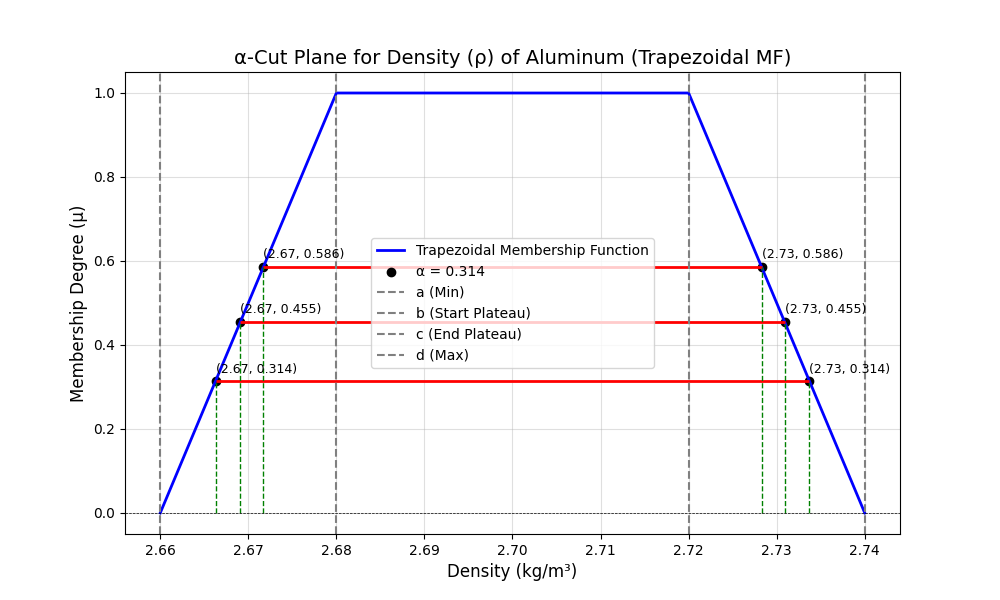
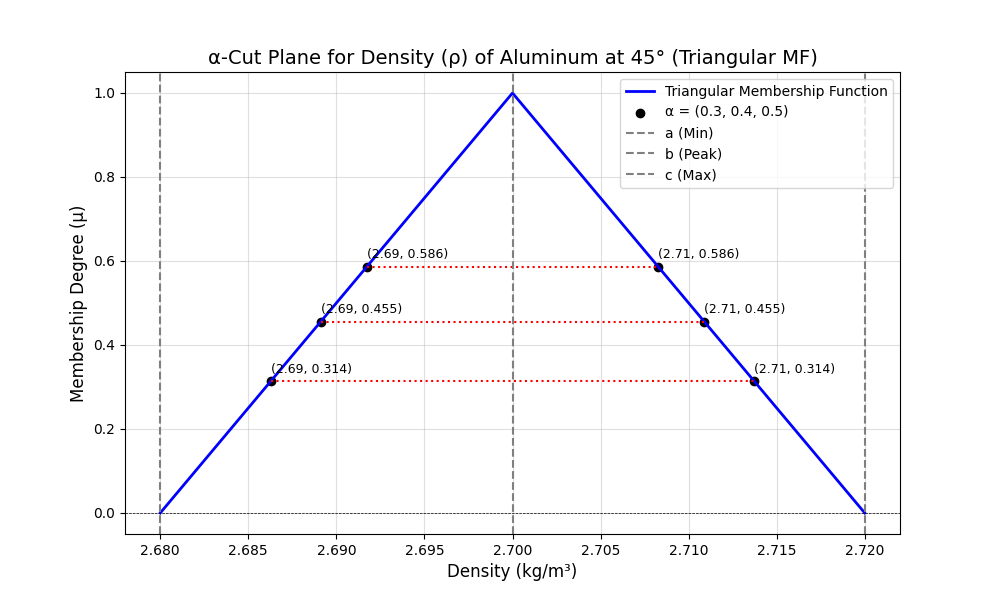
first commit

diff --git a/templates/index.html b/templates/index.html
@@ -135,10 +135,10 @@
                 <div class="form-group">                    
                     
                     <label><u>Fuzzy Membership Function:</u></label>
-                    <select name="ddlfuntion">
-                        <option>Select Function.</option>
-                        <option selected>Trapezoidal Fuzzy Function.</option>
-                        <option>Triangular Fuzzy Function.</option>
+                    <select name="ddlfuntion" required>
+                        <option value="">Select Function.</option>
+                        <option value="Trapezoidal" {% if s2=="Trapezoidal" %}selected{% endif %}>Trapezoidal Fuzzy Function.</option>
+                        <option value="Triangular" {% if s2=="Triangular" %}selected{% endif %}>Triangular Fuzzy Function.</option>
                     </select>
                 </div>
 
@@ -153,7 +153,7 @@
                         <option value="SS-304 Grade ABS Silicon">SS-304 Grade ABS Silicon</option>                        
                     </select>
                 </div>
-                <div class="form-group">
+                <div class="form-group" style="display: none;">
                     <label><u>Graph of:</u></label>
                     <input type="checkbox" id="vehicle1" name="vehicle1" value="Bike" style="width: 20px;" checked>
                     <label for="vehicle1" style="display: contents;"> Density</label><br>
@@ -163,7 +163,6 @@
                         <option value="">Select Graph.</option>
                         <option value="Density" {% if s2=="Density" %}selected{% endif %}>Density</option>
                         <option value="Youngs modulus" {% if s2=="Youngs modulus" %}selected{% endif %}>Young's modulus</option>
-
                     </select> -->
                 </div>
                 <label class="form-group"><u>Enter The Value:</u></label>

diff --git a/demo.py b/demo.py
@@ -1,47 +1,89 @@
-import numpy as np
-import matplotlib.pyplot as plt
+# # import matplotlib.pyplotas plt
+# import matplotlib.pyplot as plt
+# # Define the triangular membership function parameters for Density of Aluminum
+# a = 2.68  # Minimum value (kg/m³)
+# b = 2.70  # Most likely value (kg/m³)
+# c = 2.72  # Maximum value (kg/m³)
 
-# Define trapezoidal membership function parameters
-a, b, c, d = 2690, 2693, 2702, 2705  # Trapezoidal points
+# # Define α levels
+# alpha = [0.3, 0.4, 0.5]
 
-# Generate x values and corresponding membership values
-x_density = np.linspace(2687, 2707, 500)
-mf_density = np.piecewise(
-    x_density,
-    [x_density <= a, (a < x_density) & (x_density < b), 
-     (b <= x_density) & (x_density <= c), (c < x_density) & (x_density < d), x_density >= d],
-    [0, lambda x: (x - a) / (b - a), 1, lambda x: (d - x) / (d - c), 0]
-)
+# # Calculate x (lower bound) and x̄ (upper bound) for each α
+# x = [a + (b - a) * alpha_val for alpha_val in alpha]
+# x_bar = [c - (c - b) * alpha_val for alpha_val in alpha]
 
-# Correct α-cut points calculated using membership function formulas
-alpha_cut_points = [
-    # (x_min, x_max, alpha, alpha_prime) with x_min and x_max computed for desired alphas
-    (a + 0.3*(b - a), d - 0.36*(d - c), 0.3, 0.36),  # First line
-    (a + 0.4*(b - a), d - 0.45*(d - c), 0.4, 0.45),  # Second line
-    (a + 0.5*(b - a), d - 0.58*(d - c), 0.5, 0.58)   # Third line
-]
 
-# Plotting the trapezoidal membership function
-plt.figure(figsize=(10, 6))
-plt.plot(x_density, mf_density, label='Trapezoidal Membership Function', color='blue')
+# # Plot the triangular membership function
+# plt.figure(figsize=(10, 6))
+# plt.plot([a, b, c], [0, 1, 0], label="Triangular Membership Function", color="blue", linewidth=2)
 
-# Plotting corrected α-cut lines
-for i, (x_min, x_max, alpha, alpha_prime) in enumerate(alpha_cut_points):
-    plt.scatter([x_min, x_max], [alpha, alpha_prime], color='black')  # Points on the MF
-    plt.plot([x_min, x_max], [alpha, alpha_prime], color='red', linestyle='dotted')  # Slanted line
-    plt.text(x_min, alpha, f'({x_min:.1f}, {alpha})', fontsize=10, ha='right')
-    plt.text(x_max, alpha_prime, f'({x_max:.1f}, {alpha_prime})', fontsize=10, ha='left')
+# # Plot α-cut points and annotate coordinates
+# for i in range(len(alpha)):
+#     plt.hlines(alpha[i], x[i], x_bar[i], color="red", linestyles="dotted", linewidth=1.5)
+#     plt.scatter([x[i], x_bar[i]], [alpha[i], alpha[i]], color="black", label=f"α = {0.3,0.4,0.5}" if i == 0 else "")
 
-# Mark key points with dashed lines
-plt.axvline(x=a, color='gray', linestyle='dashed', label='a (2690)')
-plt.axvline(x=b, color='gray', linestyle='dashed', label='b (2693)')
-plt.axvline(x=c, color='gray', linestyle='dashed', label='c (2702)')
-plt.axvline(x=d, color='gray', linestyle='dashed', label='d (2705)')
+#     # Annotate coordinates
+#     plt.text(x[i], alpha[i] + 0.02, f"({x[i]:.2f}, {alpha[i]})", color="black", fontsize=9)
+#     plt.text(x_bar[i], alpha[i] + 0.02, f"({x_bar[i]:.2f}, {alpha[i]})", color="black", fontsize=9)
 
-plt.xlabel("Density of Aluminum (kg/m³)")
-plt.ylabel("Membership Degree ($\\mu$)")
-plt.title("Corrected α - α' Cut Plane for Density (Trapezoidal MF)")
-plt.legend(loc='upper right')
-plt.grid(True)
-plt.savefig("corrected_alpha_cut_plot.png")
-plt.show()
+# # Add labels and decorations
+# plt.title("α-Cut Plane for Density (ρ) of Aluminum at 45° (Triangular MF)", fontsize=14)
+# plt.xlabel("Density (kg/m³)", fontsize=12)
+# plt.ylabel("Membership Degree (μ)", fontsize=12)
+# plt.axhline(0, color='black', linewidth=0.5, linestyle='--')
+# plt.axvline(a, color='gray', linestyle="--", label="a (Min)")
+# plt.axvline(b, color='gray', linestyle="--", label="b (Peak)")
+# plt.axvline(c, color='gray', linestyle="--", label="c (Max)")
+# plt.legend()
+# plt.grid(alpha=0.4)
+# plt.show()
+
+
+
+# import numpy as np
+# import matplotlib.pyplot as plt
+
+# # Define trapezoidal membership function parameters
+# a, b, c, d = 2690, 2693, 2702, 2705  # Trapezoidal points
+
+# # Generate x values and corresponding membership values
+# x_density = np.linspace(2687, 2707, 500)
+# mf_density = np.piecewise(
+#     x_density,
+#     [x_density <= a, (a < x_density) & (x_density < b), 
+#      (b <= x_density) & (x_density <= c), (c < x_density) & (x_density < d), x_density >= d],
+#     [0, lambda x: (x - a) / (b - a), 1, lambda x: (d - x) / (d - c), 0]
+# )
+
+# # Correct α-cut points calculated using membership function formulas
+# alpha_cut_points = [
+#     # (x_min, x_max, alpha, alpha_prime) with x_min and x_max computed for desired alphas
+#     (a + 0.3*(b - a), d - 0.36*(d - c), 0.3, 0.36),  # First line
+#     (a + 0.4*(b - a), d - 0.45*(d - c), 0.4, 0.45),  # Second line
+#     (a + 0.5*(b - a), d - 0.58*(d - c), 0.5, 0.58)   # Third line
+# ]
+
+# # Plotting the trapezoidal membership function
+# plt.figure(figsize=(10, 6))
+# plt.plot(x_density, mf_density, label='Trapezoidal Membership Function', color='blue')
+
+# # Plotting corrected α-cut lines
+# for i, (x_min, x_max, alpha, alpha_prime) in enumerate(alpha_cut_points):
+#     plt.scatter([x_min, x_max], [alpha, alpha_prime], color='black')  # Points on the MF
+#     plt.plot([x_min, x_max], [alpha, alpha_prime], color='red', linestyle='dotted')  # Slanted line
+#     plt.text(x_min, alpha, f'({x_min:.1f}, {alpha})', fontsize=10, ha='right')
+#     plt.text(x_max, alpha_prime, f'({x_max:.1f}, {alpha_prime})', fontsize=10, ha='left')
+
+# # Mark key points with dashed lines
+# plt.axvline(x=a, color='gray', linestyle='dashed', label='a (2690)')
+# plt.axvline(x=b, color='gray', linestyle='dashed', label='b (2693)')
+# plt.axvline(x=c, color='gray', linestyle='dashed', label='c (2702)')
+# plt.axvline(x=d, color='gray', linestyle='dashed', label='d (2705)')
+
+# plt.xlabel("Density of Aluminum (kg/m³)")
+# plt.ylabel("Membership Degree ($\\mu$)")
+# plt.title("Corrected α - α' Cut Plane for Density (Trapezoidal MF)")
+# plt.legend(loc='upper right')
+# plt.grid(True)
+# plt.savefig("corrected_alpha_cut_plot.png")
+# plt.show()

diff --git a/TriangularYoung.py b/TriangularYoung.py
@@ -1,0 +1,57 @@
+import matplotlib.pyplot as plt
+
+# Define the triangular membership function parameters for Neoprene Rubber young modulus
+a = 100000  # Minimum value (N/m²)
+b = 300000  # Peak value (N/m²)
+c = 500000  # Maximum value (N/m²)
+
+def TriangularYoungFun(a1,a2,a3,graph): 
+    # Define α levels
+    # alpha = [0.3, 0.4, 0.5]
+    alpha = [a1, a2, a3]
+    colors = ["red", "purple", "orange"]  # Different colors for α-cuts
+
+    # Calculate x (lower bound) and x̄ (upper bound) for each α
+    x = [a + (b - a) * alpha_val for alpha_val in alpha]
+    x_bar = [c - (c - b) * alpha_val for alpha_val in alpha]
+
+    # Plot the triangular membership function
+    plt.figure(figsize=(10, 6))
+    plt.plot([a, b, c], [0, 1, 0], label="Triangular Membership Function", color="blue", linewidth=2)
+    # Plot α-cut points and annotate coordinates
+    for i in range(len(alpha)):
+        # Plot the α-cut line
+        plt.hlines(alpha[i], x[i], x_bar[i], color=colors[i], linestyles="dotted", linewidth=1.5)
+
+        # Mark the points on the α-cut
+        plt.scatter([x[i], x_bar[i]], [alpha[i], alpha[i]], color="black")
+
+        # Annotate the coordinates with only α value (not α1, α2, α3)
+        plt.text(x[i], alpha[i] + 0.02, f"({x[i]:.2f}, {alpha[i]:.1f})", color="black", fontsize=9)
+        plt.text(x_bar[i], alpha[i] + 0.02, f"({x_bar[i]:.2f}, {alpha[i]:.1f})", color="black", fontsize=9)
+
+        # Draw vertical dashed lines from α-cut points down to x-axis (Intersection Lines)
+        plt.vlines(x[i], 0, alpha[i], color="green", linestyles="dashed", linewidth=1)
+        plt.vlines(x_bar[i], 0, alpha[i], color="green", linestyles="dashed", linewidth=1)
+    # Add labels and decorations
+    plt.title("α-Cut Plane for Young's Modulus of Neoprene Rubber (Triangular MF)", fontsize=14)
+    plt.xlabel("Young's Modulus (N/m²)", fontsize=12)
+    plt.ylabel("Membership Degree (μ)", fontsize=12)
+    plt.axhline(0, color='black', linewidth=0.5, linestyle='--')
+    plt.axvline(a, color='gray', linestyle="--", label="a (Min)")
+    plt.axvline(b, color='gray', linestyle="--", label="b (Peak)")
+    plt.axvline(c, color='gray', linestyle="--", label="c (Max)")
+    plt.grid(alpha=0.4)
+
+    # Custom legend for α-cuts with smaller size
+    plt.scatter([], [], color="red", label=r"$\alpha_1 = 0.3$")
+    plt.scatter([], [], color="purple", label=r"$\alpha_2 = 0.4$")
+    plt.scatter([], [], color="orange", label=r"$\alpha_3 = 0.5$")
+
+    # Make legend smaller
+    plt.legend(fontsize=9, frameon=True, loc="upper right", borderpad=0.3, handletextpad=0.3)
+
+    # plt.show()
+    g = "static/img/" + graph
+    plt.savefig(g)
+    plt.close()  # Close the figure to free up memory

diff --git a/app.py b/app.py
@@ -9,6 +9,8 @@ app = Flask(__name__)
 
 from AlphaDensity import alphaDensityFun
 from AlphaYoung import alphaYoungFun
+from TriangularDensity import TriangularDensity
+from TriangularYoung import TriangularYoungFun
 @app.route('/', methods=['GET', 'POST'])
 def index():
     # alpha = [0.313, 0.455, 0.585]
@@ -16,7 +18,8 @@ def index():
     if request.method=='POST':
         # Retrieve form data
         ddlmaterials = request.form.get('ddlmaterials')
-        # ddlgraph = request.form.get('ddlgraph')      
+        ddlfuntion = request.form.get('ddlfuntion')      
+        print(ddlfuntion)
         # ddlgraph = None  
         a1 = request.form.get('alpha1')
         a2 = request.form.get('alpha2')
@@ -29,23 +32,31 @@ def index():
             a1 = float(a1)
             a2 = float(a2)
             a3 = float(a3) 
-            g1 = 'Alpha_' + 'Density' + '.png'    
-            alphaDensityFun(a1,a2,a3,g1)
+            g1 = 'Alpha_' + 'Density' + '.png'   
             g3 = 'Alpha_' + 'Young' + '.png' 
-            alphaYoungFun(a1,a2,a3,g3)
+            if(ddlfuntion == 'Trapezoidal'):
+                alphaDensityFun(a1,a2,a3,g1)
+                alphaYoungFun(a1,a2,a3,g3)
+            else:
+                TriangularDensity(a1,a2,a3,g1)
+                TriangularYoungFun(a1,a2,a3,g3)
+            
         if a4.strip() != '' and a5.strip() != '' and a6.strip() != '': 
             a4 = float(a4)
             a5 = float(a5)
             a6 = float(a6) 
-            g2 = 'Alpha_dash_' + 'Density' + '.png'    
-            alphaDensityFun(a4,a5,a6,g2)
-            g4 = 'Alpha_dash_' + 'Young' + '.png'    
-            alphaYoungFun(a4,a5,a6,g4)  
+            g2 = 'Alpha_dash_' + 'Density' + '.png'  
+            g4 = 'Alpha_dash_' + 'Young' + '.png' 
+            if(ddlfuntion == 'Trapezoidal'):
+                alphaDensityFun(a4,a5,a6,g2)               
+                alphaYoungFun(a4,a5,a6,g4)  
+            else:
+                TriangularDensity(a4,a5,a6,g2)
+                TriangularYoungFun(a4,a5,a6,g4)
                 
-        return render_template('index.html', g1=g1,g2=g2,g3=g3,g4=g4,a1=a1,a2=a2,a3=a3,a4=a4,a5=a5,a6=a6,s1=ddlmaterials )     
+        return render_template('index.html', g1=g1,g2=g2,g3=g3,g4=g4,a1=a1,a2=a2,a3=a3,a4=a4,a5=a5,a6=a6,s1=ddlmaterials,s2=ddlfuntion )     
     return render_template('index.html',g1=g1,g2=g2,g3=g3,g4=g4)
 
 if __name__ == '__main__':
-    # app.debug = True
     # app.run(host="0.0.0.0", port=8000, debug=True)
     serve(app, host="0.0.0.0", port=8000, threads=8)

diff --git a/TriangularDensity.py b/TriangularDensity.py
@@ -1,0 +1,42 @@
+import matplotlib.pyplot as plt
+# Define the triangular membership function parameters for Density of Aluminum
+a = 2.68  # Minimum value (kg/m³)
+b = 2.70  # Most likely value (kg/m³)
+c = 2.72  # Maximum value (kg/m³)
+
+def TriangularDensity(a1,a2,a3,graph): 
+    # Define α levels
+    # alpha = [0.3, 0.4, 0.5]
+    alpha = [a1, a2, a3]
+
+    # Calculate x (lower bound) and x̄ (upper bound) for each α
+    x = [a + (b - a) * alpha_val for alpha_val in alpha]
+    x_bar = [c - (c - b) * alpha_val for alpha_val in alpha]
+
+    # Plot the triangular membership function
+    plt.figure(figsize=(10, 6))
+    plt.plot([a, b, c], [0, 1, 0], label="Triangular Membership Function", color="blue", linewidth=2)
+
+    # Plot α-cut points and annotate coordinates
+    for i in range(len(alpha)):
+        plt.hlines(alpha[i], x[i], x_bar[i], color="red", linestyles="dotted", linewidth=1.5)
+        plt.scatter([x[i], x_bar[i]], [alpha[i], alpha[i]], color="black", label=f"α = {0.3,0.4,0.5}" if i == 0 else "")
+
+        # Annotate coordinates
+        plt.text(x[i], alpha[i] + 0.02, f"({x[i]:.2f}, {alpha[i]})", color="black", fontsize=9)
+        plt.text(x_bar[i], alpha[i] + 0.02, f"({x_bar[i]:.2f}, {alpha[i]})", color="black", fontsize=9)
+
+    # Add labels and decorations
+    plt.title("α-Cut Plane for Density (ρ) of Aluminum at 45° (Triangular MF)", fontsize=14)
+    plt.xlabel("Density (kg/m³)", fontsize=12)
+    plt.ylabel("Membership Degree (μ)", fontsize=12)
+    plt.axhline(0, color='black', linewidth=0.5, linestyle='--')
+    plt.axvline(a, color='gray', linestyle="--", label="a (Min)")
+    plt.axvline(b, color='gray', linestyle="--", label="b (Peak)")
+    plt.axvline(c, color='gray', linestyle="--", label="c (Max)")
+    plt.legend()
+    plt.grid(alpha=0.4)
+    # plt.show()
+    g = "static/img/" + graph
+    plt.savefig(g)
+    plt.close()  # Close the figure to free up memory
